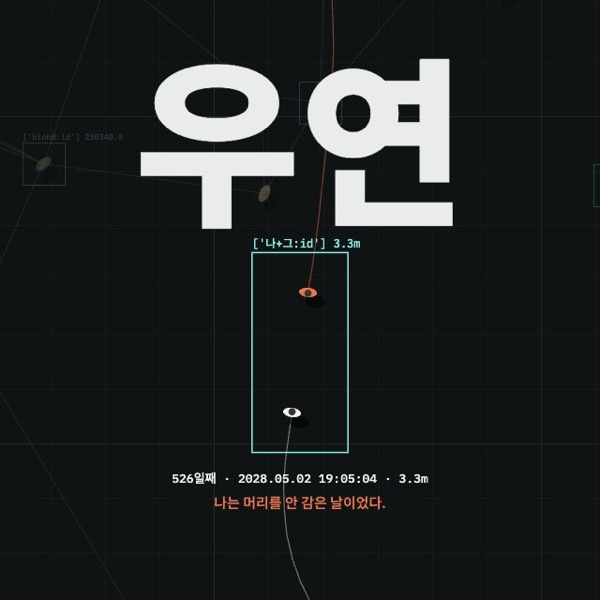
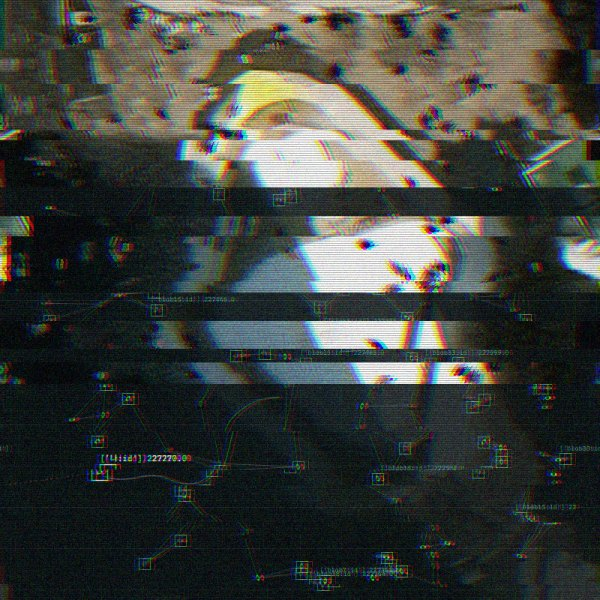
day-261124 서울광장 위성사진과 탑뷰 사람 사진, 지지직 전환

diff --git a/day-261124/index.html b/day-261124/index.html
@@ -43,6 +43,7 @@
   #days li.sep { display: block; text-align: center; color: var(--mute); font-size: 10.5px; }
   #hud { right: 18px; bottom: 18px; padding: 10px 14px; font-size: 12px; text-align: right; line-height: 1.6; min-width: 230px; }
   #hud b { font-weight: 600; color: var(--cy); }
+  #attr { position: fixed; left: 50%; bottom: 4px; transform: translateX(-50%); z-index: 3; font-size: 9px; color: rgba(232,236,234,.55); white-space: nowrap; pointer-events: none; }
 
   #modal { position: fixed; inset: 0; z-index: 10; display: flex; align-items: center; justify-content: center; background: rgba(5,6,7,.72); backdrop-filter: blur(6px); -webkit-backdrop-filter: blur(6px); overflow-y: auto; padding: 20px 12px; box-sizing: border-box; }
   #modal.hide { display: none; }
@@ -77,7 +78,8 @@
     #calc h1 { font-size: 13px; margin-bottom: 4px; }
     #pday { font-size: 28px; margin: 2px 0 3px; }
     #every { font-size: 12px; } #formula { display: none; }
-    #ctl { left: 10px; right: 10px; bottom: 10px; width: auto; padding: 10px 12px; }
+    #attr { font-size: 8px; bottom: 2px; }
+    #ctl { left: 10px; right: 10px; bottom: 16px; width: auto; padding: 10px 12px; }
     .row { margin-bottom: 8px; }
     #log { display: none; }
     #hud { right: 10px; bottom: auto; top: 186px; min-width: 0; font-size: 10.5px; padding: 6px 9px; }
@@ -103,6 +105,7 @@
   <div class="act"><button id="walk">하루 걷기</button><button id="until">만날 때까지</button></div>
 </section>
 <div id="hud" class="panel">—</div>
+<div id="attr">Imagery: Esri, Maxar, Earthstar Geographics, and the GIS User Community</div>
 
 <div id="modal">
   <form class="sheet" id="form" onsubmit="return false">
@@ -125,6 +128,6 @@
     <button id="go" type="button">관측 시작</button>
   </form>
 </div>
-<script type="module" src="main.js?v=3"></script>
+<script type="module" src="main.js?v=5"></script>
 </body>
 </html>

diff --git a/index.html b/index.html
@@ -460,7 +460,7 @@
     <div class="card-info">
       <div class="card-tag">day 261124 · coincidence</div>
       <div class="card-title">전남친을 마주칠 확률</div>
-      <div class="card-concept">나와 그의 하루 외출 시간을 칠해 넣으면, 길에서 우연히 마주칠 확률을 기체 분자 충돌 모형으로 담담하게 계산한다. 위에서 내려다본 광장의 사람들을 추적 박스와 연결선으로 관측하며 하루씩 걷고, 대부분의 날은 아무 일도 없다가 몇 m 안에 들어오는 날 두 박스가 하나로 합쳐지며 '우연'이 찍힌다</div>
+      <div class="card-concept">나와 그의 하루 외출 시간을 칠해 넣으면, 길에서 우연히 마주칠 확률을 기체 분자 충돌 모형으로 담담하게 계산한다. 서울광장 위성사진 위를 걷는 사람들을 내려다보다가, 화면이 지지직 찢어지며 추적 박스와 연결선의 관측 화면으로 바뀌었다 돌아오기를 반복한다. 하루씩 걷다 보면 대부분의 날은 아무 일도 없다가 몇 m 안에 들어오는 날 두 박스가 하나로 합쳐지며 '우연'이 찍힌다</div>
       <div class="card-bottom">
         <span>2026.11.24</span>
         <span class="bookmark" aria-hidden="true"></span>
